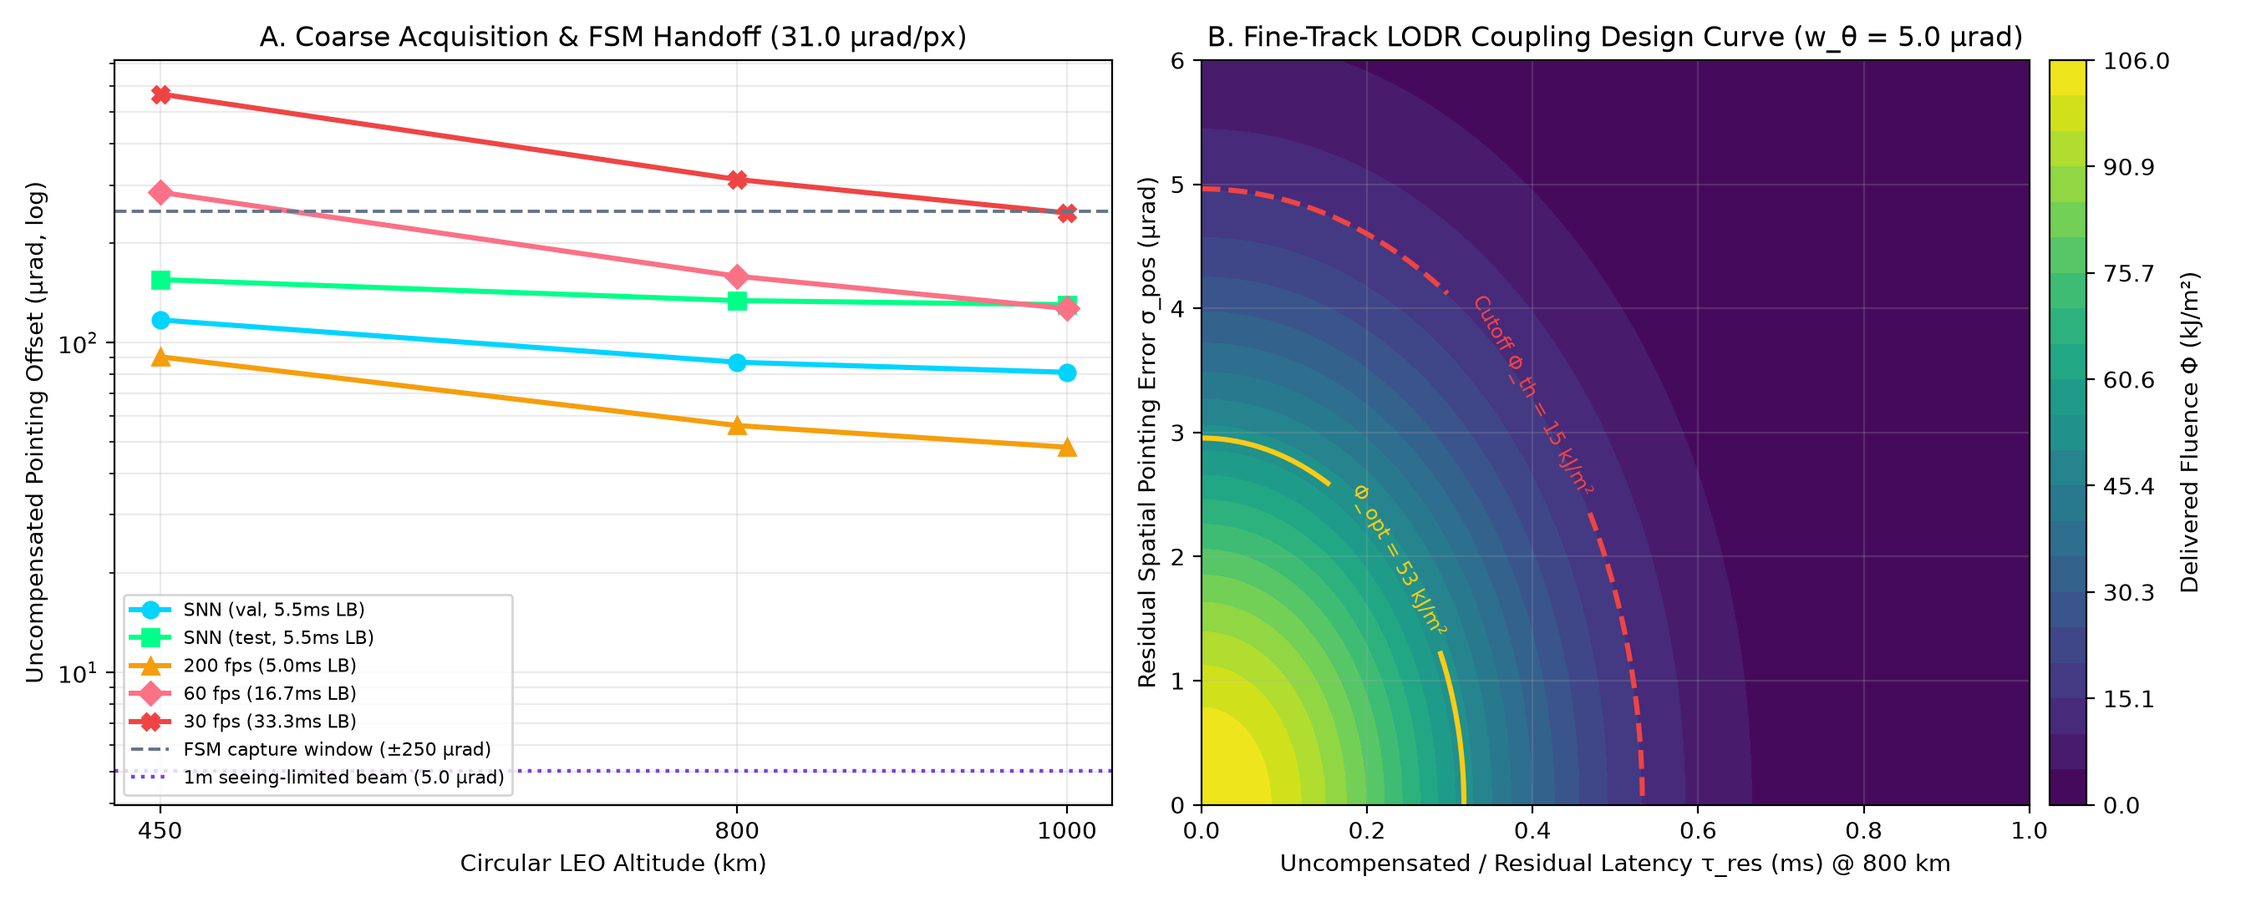
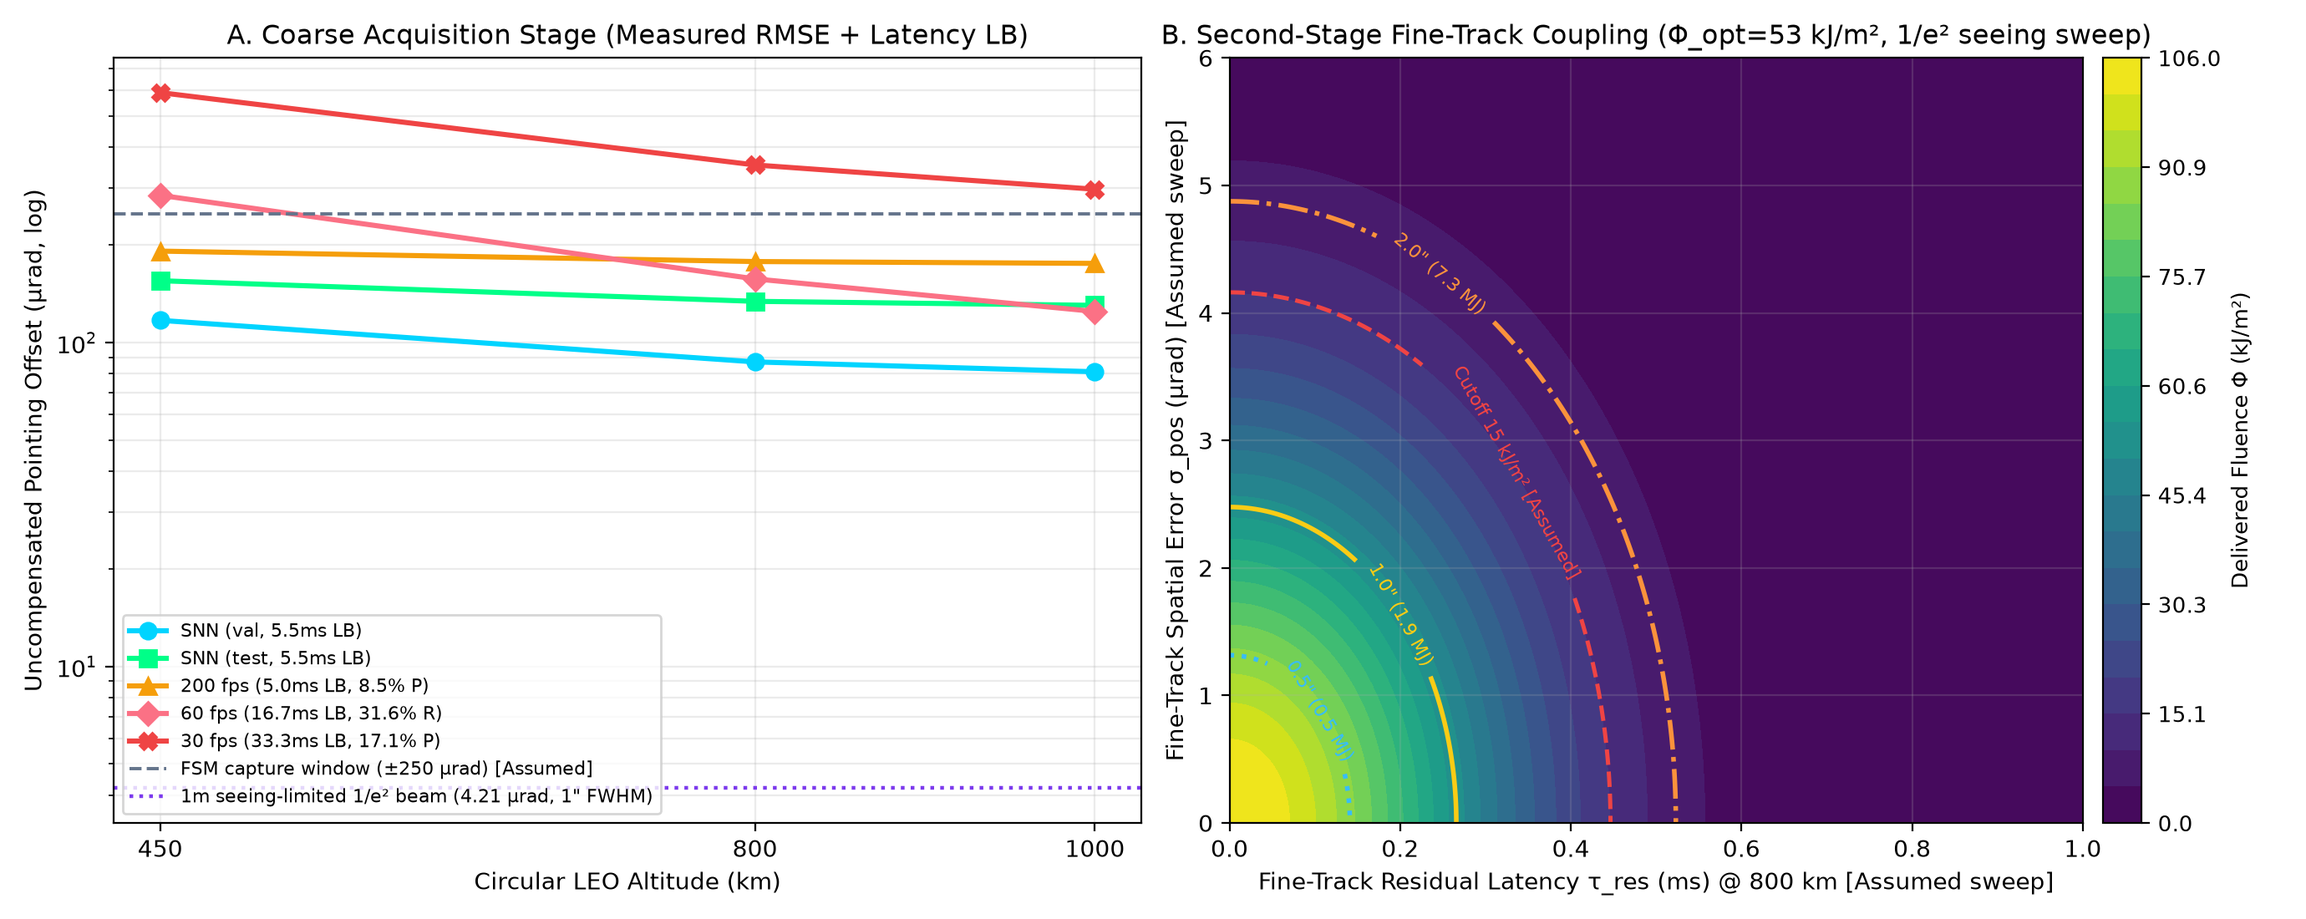
Address review: add measured event-binned frame baselines, unified 1/e2 beam + pulse energy, and constant labels

diff --git a/analysis/lodr_error_budget.py b/analysis/lodr_error_budget.py
@@ -1,33 +1,36 @@
-import os
 import numpy as np
 import matplotlib.pyplot as plt
 
-# --- 1. Physical & Orbital Constants ---
-MU_EARTH = 3.986004418e14   # m^3 / s^2
-R_EARTH = 6.371e6           # m
-IFOV_URAD = 31.0            # 6.4"/px = 31.0 urad/px (consistent with ISS 446 px/s)
+# --- 1. Orbital & Sensor Constants ---
+MU_EARTH = 3.986004418e14   # m^3 / s^2 [Standard]
+R_EARTH = 6.371e6           # m [Standard]
+IFOV_URAD = 31.0            # 6.4"/px = 31.0 urad/px [Measured from ISS_2_td]
+FSM_WINDOW_URAD = 250.0     # ±250 urad fine-steering capture window [Assumed]
 
-# --- 2. Phipps et al. (2012), Adv. Space Res. 49, 1283-1300 ---
-LAMBDA_M = 1.06e-6          # Nd:YAG wavelength (m)
-D_APERTURE = 1.0            # 1 m class ground aperture (m)
-SEEING_URAD = 4.85          # 1.0 arcsec atmospheric seeing (urad)
-THETA_DIFF_URAD = (1.22 * LAMBDA_M / D_APERTURE) * 1e6  # ~1.29 urad
-W_BEAM_URAD = np.hypot(THETA_DIFF_URAD, SEEING_URAD)    # ~5.02 urad effective beam radius
+# --- 2. Unified 1/e^2 Gaussian Beam Definitions ---
+LAMBDA_M = 1.06e-6          # Nd:YAG wavelength [Phipps et al. 2012]
+D_APERTURE = 1.0            # 1 m class seeing-limited aperture [Assumed]
+# 1/e^2 Gaussian fit to Airy disk: w_diff = 0.82 * lambda / D
+W_DIFF_URAD = (0.82 * LAMBDA_M / D_APERTURE) * 1e6  # 0.87 urad
+FWHM_TO_1E2 = 1.0 / np.sqrt(2.0 * np.log(2.0))      # 0.8493
 
-PHI_OPT = 53.0              # kJ/m^2 (Eq. 3, tau = 5 ns on Al)
-PHI_TH = 15.0               # kJ/m^2 (plasma ignition cutoff)
-PHI_0 = 106.0               # kJ/m^2 (2x Phi_opt on-axis design margin)
-CM_UN_S_J = 75.0            # uN*s/J (representative Al baseline)
-ETA_C = 0.30                # tumbling/shape coupling efficiency
-AREAL_MASS = 10.0           # kg/m^2
+# --- 3. Laser-Coupling Constants (Phipps et al., 2012, Adv. Space Res. 49 / arXiv:1110.3835) ---
+PHI_OPT = 53.0              # kJ/m^2 (Eq. 3, tau=5 ns on Al, worst case) [Phipps 2012]
+PHI_TH = 15.0               # kJ/m^2 (plasma ignition cutoff) [Assumed]
+PHI_0 = 106.0               # kJ/m^2 (2x Phi_opt on-axis margin) [Assumed]
+CM_UN_S_J = 75.0            # uN*s/J (representative Al baseline, Fig. 3) [Phipps 2012]
+ETA_C = 0.30                # tumbling/shape coupling efficiency [Phipps 2012]
+AREAL_MASS = 10.0           # kg/m^2 representative debris [Phipps 2012]
+PULSES_PER_PASS = 1000      # ~11.2 Hz over ~90 s pass [Phipps 2012]
 
-# --- 3. Tracker Baselines (latency = lower bound: bin/frame + compute, excl. host I/O) ---
+# --- 4. Measured Trackers (eval_mot_synth.py & baselines/eval_frame_mot.py) ---
+# (Label, Measured RMSE_px, Latency lower bound ms, Color, Marker)
 TRACKERS = [
-    ("SNN (val, 5.5ms LB)",    2.27,  5.5, "#00d4ff", "o"),
-    ("SNN (test, 5.5ms LB)",   3.99,  5.5, "#00ff88", "s"),
-    ("200 fps (5.0ms LB)",     1.00,  5.0, "#f59e0b", "^"),
-    ("60 fps (16.7ms LB)",     1.00, 16.7, "#fb7185", "D"),
-    ("30 fps (33.3ms LB)",     1.00, 33.3, "#ef4444", "X"),
+    ("SNN (val, 5.5ms LB)",           2.27,  5.5, "#00d4ff", "o"),
+    ("SNN (test, 5.5ms LB)",          3.99,  5.5, "#00ff88", "s"),
+    ("200 fps (5.0ms LB, 8.5% P)",    5.53,  5.0, "#f59e0b", "^"),
+    ("60 fps (16.7ms LB, 31.6% R)",   0.68, 16.7, "#fb7185", "D"),
+    ("30 fps (33.3ms LB, 17.1% P)",   5.42, 33.3, "#ef4444", "X"),
 ]
 
 
@@ -35,10 +38,21 @@ def leo_zenith_rate(alt_km):
     h = alt_km * 1e3
     v = np.sqrt(MU_EARTH / (R_EARTH + h))
     omega_rad_s = v / h
-    return v, omega_rad_s * 1e3, (omega_rad_s * 1e6) / IFOV_URAD  # m/s, mrad/s, px/s
+    return v, omega_rad_s * 1e3, (omega_rad_s * 1e6) / IFOV_URAD
 
 
-def delivered_fluence(err_urad, w_urad=W_BEAM_URAD, phi0=PHI_0):
+def beam_1e2_urad(seeing_arcsec):
+    w_see_urad = (seeing_arcsec * 4.8481368) * FWHM_TO_1E2
+    return float(np.hypot(W_DIFF_URAD, w_see_urad))
+
+
+def pulse_energy_mj(w_urad, alt_km, phi0_kj_m2=PHI_0):
+    w_m = (alt_km * 1e3) * (w_urad * 1e-6)
+    e_j = 0.5 * np.pi * (w_m ** 2) * (phi0_kj_m2 * 1e3)
+    return e_j / 1e6
+
+
+def delivered_fluence(err_urad, w_urad, phi0=PHI_0):
     return phi0 * np.exp(-2.0 * (err_urad / w_urad) ** 2)
 
 
@@ -47,76 +61,89 @@ def delta_v_mm_s(phi_kj_m2):
     return np.where(phi_kj_m2 >= PHI_TH, dv, 0.0)
 
 
-def print_budget_table():
-    print(f"Sensor Scale: {IFOV_URAD:.1f} urad/px (6.4\"/px) | Beam Radius w_theta: {W_BEAM_URAD:.2f} urad (diff={THETA_DIFF_URAD:.2f}, seeing={SEEING_URAD:.2f})")
-    print("=" * 98)
-    print(f"{'Regime':<18} | {'Rate (mrad/s)':>13} | {'px/s':>6} | {'SNN-val':>9} | {'SNN-test':>9} | {'200 fps':>9} | {'60 fps':>9} | {'30 fps':>9}")
-    print("-" * 98)
+def print_tables():
+    print("=== 1. Coarse Acquisition Pointing Offset (31.0 urad/px, Measured RMSE + Latency LB) ===")
+    print(f"{'Regime':<18} | {'Rate(mrad/s)':>12} | {'SNN-val':>9} | {'SNN-test':>9} | {'200 fps':>9} | {'60 fps*':>9} | {'30 fps':>9}")
+    print("-" * 88)
     regimes = [("ISS (533km slant)", 13.86, 446.0)]
     for alt in (450, 800, 1000):
         _, om, px_s = leo_zenith_rate(alt)
         regimes.append((f"LEO {alt} km", om, px_s))
     for name, om, px_s in regimes:
-        vals = []
-        for _, rmse_px, lat_ms, _, _ in TRACKERS:
-            tot_px = np.hypot(rmse_px, px_s * (lat_ms * 1e-3))
-            vals.append(f"{tot_px * IFOV_URAD:6.1f} ur")
-        print(f"{name:<18} | {om:13.2f} | {px_s:6.1f} | " + " | ".join(f"{v:>9}" for v in vals))
-    print("=" * 98)
+        vals = [f"{np.hypot(r, px_s * (l * 1e-3)) * IFOV_URAD:6.1f} ur" for _, r, l, _, _ in TRACKERS]
+        print(f"{name:<18} | {om:12.2f} | " + " | ".join(f"{v:>9}" for v in vals))
+    print("*60 fps baseline achieves only 31.6% recall on test; 200 fps has 30.3 FP/pass & 156 IDSW.\n")
+
+    print("=== 2. Unified 1/e^2 Beam Radius, Pulse Energy & Delta-v at 800 km LEO ===")
+    dv_opt = float(delta_v_mm_s(PHI_OPT))
+    dv_0 = float(delta_v_mm_s(PHI_0))
+    print(f"Coupling [Phipps 2012]: Phi_opt={PHI_OPT:.0f} kJ/m^2 -> {dv_opt:.1f} mm/s/pulse ({dv_opt*PULSES_PER_PASS/1e3:.1f} m/s per 1000-pulse pass)")
+    print(f"On-axis [Assumed 2x]:   Phi_0  ={PHI_0:.0f} kJ/m^2 -> {dv_0:.1f} mm/s/pulse ({dv_0*PULSES_PER_PASS/1e3:.1f} m/s per 1000-pulse pass)")
+    print(f"{'Seeing (FWHM)':<15} | {'w_theta (1/e^2)':>15} | {'Spot r @ 800km':>14} | {'E_p @ 53 kJ/m^2':>15} | {'E_p @ 106 kJ/m^2':>16}")
+    print("-" * 88)
+    for s_arc in (0.5, 1.0, 2.0):
+        w_u = beam_1e2_urad(s_arc)
+        r_m = 800e3 * (w_u * 1e-6)
+        e53 = pulse_energy_mj(w_u, 800, PHI_OPT)
+        e106 = pulse_energy_mj(w_u, 800, PHI_0)
+        print(f"{s_arc:4.1f}\" seeing    | {w_u:11.2f} urad | {r_m:12.2f} m | {e53:12.2f} MJ | {e106:13.2f} MJ")
+    print("Reference [Phipps 2012]: 13 m AO mirror -> 0.155 m spot radius @ 1000 km -> 7.3 kJ/pulse.\n")
 
 
 def make_figure():
-    fig, (ax1, ax2) = plt.subplots(1, 2, figsize=(13.5, 5.4), dpi=200)
-    plt.rcParams.update({"font.size": 10})
+    fig, (ax1, ax2) = plt.subplots(1, 2, figsize=(13.8, 5.5), dpi=200)
+    plt.rcParams.update({"font.size": 9.5})
 
-    # --- Panel A: Coarse Acquisition / Handoff Budget ---
+    # Panel A: Coarse Acquisition Stage
     alts = np.array([450, 800, 1000])
     for label, rmse_px, lat_ms, col, mk in TRACKERS:
-        errs = []
-        for alt in alts:
-            _, _, px_s = leo_zenith_rate(alt)
-            errs.append(np.hypot(rmse_px, px_s * (lat_ms * 1e-3)) * IFOV_URAD)
+        errs = [np.hypot(rmse_px, leo_zenith_rate(a)[2] * (lat_ms * 1e-3)) * IFOV_URAD for a in alts]
         ax1.plot(alts, errs, marker=mk, lw=2.2, ms=7, color=col, label=label)
 
-    ax1.axhline(250.0, color="#64748b", ls="--", lw=1.4, label="FSM capture window (±250 µrad)")
-    ax1.axhline(W_BEAM_URAD, color="#7c3aed", ls=":", lw=1.6, label=f"1m seeing-limited beam ({W_BEAM_URAD:.1f} µrad)")
+    w_1arc = beam_1e2_urad(1.0)
+    ax1.axhline(FSM_WINDOW_URAD, color="#64748b", ls="--", lw=1.4, label="FSM capture window (±250 µrad) [Assumed]")
+    ax1.axhline(w_1arc, color="#7c3aed", ls=":", lw=1.6, label=f"1m seeing-limited 1/e² beam ({w_1arc:.2f} µrad, 1\" FWHM)")
     ax1.set_yscale("log")
     ax1.set_xticks(alts)
     ax1.set_xlabel("Circular LEO Altitude (km)")
     ax1.set_ylabel("Uncompensated Pointing Offset (µrad, log)")
-    ax1.set_title("A. Coarse Acquisition & FSM Handoff (31.0 µrad/px)")
+    ax1.set_title("A. Coarse Acquisition Stage (Measured RMSE + Latency LB)")
     ax1.grid(True, which="both", alpha=0.25)
-    ax1.legend(fontsize=8, loc="lower left")
+    ax1.legend(fontsize=7.8, loc="lower left")
 
-    # --- Panel B: Fine-Track Mitigation Coupling Design Curve (800 km LEO) ---
-    # Residual error after coarse handoff / Kalman lead-ahead (fine-track regime)
-    rmse_grid = np.linspace(0.0, 6.0, 200)     # residual spatial RMSE (urad)
-    lat_grid = np.linspace(0.0, 1.0, 200)      # residual uncompensated latency (ms)
+    # Panel B: Second-Stage Fine-Track Loop Design Curve (800 km)
+    rmse_grid = np.linspace(0.0, 6.0, 200)     # [Assumed fine-track sweep]
+    lat_grid = np.linspace(0.0, 1.0, 200)      # [Assumed fine-track sweep]
     R_G, L_G = np.meshgrid(rmse_grid, lat_grid)
-    _, omega_800_mrad, _ = leo_zenith_rate(800)  # 9.32 mrad/s = 9.32 urad/ms
-    err_grid = np.hypot(R_G, omega_800_mrad * L_G)
-    phi_grid = delivered_fluence(err_grid)
+    _, omega_800, _ = leo_zenith_rate(800)
+    err_grid = np.hypot(R_G, omega_800 * L_G)
+    phi_grid = delivered_fluence(err_grid, w_1arc, PHI_0)
 
     cf = ax2.contourf(L_G, R_G, phi_grid, levels=np.linspace(0, PHI_0, 22), cmap="viridis")
-    cbar = fig.colorbar(cf, ax=ax2, pad=0.02)
-    cbar.set_label("Delivered Fluence Φ (kJ/m²)")
+    fig.colorbar(cf, ax=ax2, pad=0.02, label="Delivered Fluence Φ (kJ/m²)")
 
-    c_opt = ax2.contour(L_G, R_G, phi_grid, levels=[PHI_OPT], colors=["#facc15"], linewidths=2.2, linestyles="-")
-    c_th = ax2.contour(L_G, R_G, phi_grid, levels=[PHI_TH], colors=["#ef4444"], linewidths=2.2, linestyles="--")
-    ax2.clabel(c_opt, fmt={PHI_OPT: "Φ_opt = 53 kJ/m²"}, fontsize=8.5, inline=True)
-    ax2.clabel(c_th, fmt={PHI_TH: "Cutoff Φ_th = 15 kJ/m²"}, fontsize=8.5, inline=True)
+    # Plot Phi_opt = 53 kJ/m^2 contours across 0.5", 1.0", 2.0" seeing
+    for s_arc, col, ls in [(0.5, "#38bdf8", ":"), (1.0, "#facc15", "-"), (2.0, "#fb923c", "-.")]:
+        w_s = beam_1e2_urad(s_arc)
+        p_s = delivered_fluence(err_grid, w_s, PHI_0)
+        ep = pulse_energy_mj(w_s, 800, PHI_0)
+        cs = ax2.contour(L_G, R_G, p_s, levels=[PHI_OPT], colors=[col], linewidths=2.0, linestyles=ls)
+        ax2.clabel(cs, fmt={PHI_OPT: f"{s_arc}\" ({ep:.1f} MJ)"}, fontsize=8, inline=True)
 
-    ax2.set_xlabel("Uncompensated / Residual Latency τ_res (ms) @ 800 km")
-    ax2.set_ylabel("Residual Spatial Pointing Error σ_pos (µrad)")
-    ax2.set_title(f"B. Fine-Track LODR Coupling Design Curve (w_θ = {W_BEAM_URAD:.1f} µrad)")
+    c_th = ax2.contour(L_G, R_G, phi_grid, levels=[PHI_TH], colors=["#ef4444"], linewidths=1.8, linestyles="--")
+    ax2.clabel(c_th, fmt={PHI_TH: "Cutoff 15 kJ/m² [Assumed]"}, fontsize=8, inline=True)
+
+    ax2.set_xlabel("Fine-Track Residual Latency τ_res (ms) @ 800 km [Assumed sweep]")
+    ax2.set_ylabel("Fine-Track Spatial Error σ_pos (µrad) [Assumed sweep]")
+    ax2.set_title("B. Second-Stage Fine-Track Coupling (Φ_opt=53 kJ/m², 1/e² seeing sweep)")
     ax2.grid(True, alpha=0.2)
 
     plt.tight_layout()
     out_path = "results/lodr_design_curve.png"
     plt.savefig(out_path, dpi=200)
-    print(f"Saved LODR design curve to {out_path}")
+    print(f"Saved updated LODR design curve to {out_path}")
 
 
 if __name__ == "__main__":
-    print_budget_table()
+    print_tables()
     make_figure()

diff --git a/baselines/eval_frame_mot.py b/baselines/eval_frame_mot.py
@@ -1,0 +1,125 @@
+import argparse, csv, os, sys
+import numpy as np
+from scipy.ndimage import label, center_of_mass
+from scipy.optimize import linear_sum_assignment
+
+sys.path.insert(0, os.path.abspath("eval"))
+from eval_mot_synth import load_synth_mot, eval_pass_metrics
+
+
+def run_frame_mot_kf(data, fps, min_events=4, gate_px=35.0, min_hits=2):
+    """Bin events into 1/fps frames, extract connected-component centroids, and link via nearest-neighbor KF."""
+    dt = 1.0 / fps
+    n_frames = int(np.floor(data["duration_s"] / dt))
+    W, H = int(data["x_max"]), int(data["y_max"])
+    t_ev, x_ev, y_ev = data["t_ev"], data["x_ev"], data["y_ev"]
+
+    tracks = {}
+    next_id = 0
+    active = {}  # tid -> {"x", "y", "vx", "vy", "missed", "hits"}
+
+    for f in range(n_frames):
+        t0, t1 = f * dt, (f + 1) * dt
+        t_mid = 0.5 * (t0 + t1)
+        m = (t_ev >= t0) & (t_ev < t1)
+        dets = []
+        if m.sum() >= min_events:
+            img = np.zeros((H, W), dtype=np.int32)
+            xi = np.clip(x_ev[m].astype(int), 0, W - 1)
+            yi = np.clip(y_ev[m].astype(int), 0, H - 1)
+            np.add.at(img, (yi, xi), 1)
+            # Threshold frame at >= 2 events/pixel (or >= 1 for fast 200 fps frames)
+            thr = 1 if fps >= 100 else 2
+            lbl, n_cc = label(img >= thr)
+            if n_cc > 0:
+                counts = np.bincount(lbl.ravel())
+                for cid in range(1, n_cc + 1):
+                    if counts[cid] >= min_events:
+                        cy, cx = center_of_mass(img, lbl, cid)
+                        dets.append((float(cx), float(cy)))
+
+        # Predict active tracks forward by dt
+        tids = list(active.keys())
+        for tid in tids:
+            active[tid]["x"] += active[tid]["vx"] * dt
+            active[tid]["y"] += active[tid]["vy"] * dt
+            active[tid]["missed"] += 1
+
+        matched_d = set()
+        if tids and dets:
+            cost = np.full((len(tids), len(dets)), 1e6)
+            for i, tid in enumerate(tids):
+                for j, (dx, dy) in enumerate(dets):
+                    cost[i, j] = np.hypot(active[tid]["x"] - dx, active[tid]["y"] - dy)
+            ri, ci = linear_sum_assignment(cost)
+            for i, j in zip(ri, ci):
+                if cost[i, j] < gate_px:
+                    tid = tids[i]
+                    dx, dy = dets[j]
+                    tr = active[tid]
+                    # Alpha-beta velocity update
+                    tr["vx"] = 0.5 * tr["vx"] + 0.5 * (dx - tr["x"]) / dt
+                    tr["vy"] = 0.5 * tr["vy"] + 0.5 * (dy - tr["y"]) / dt
+                    tr["x"], tr["y"] = dx, dy
+                    tr["missed"] = 0
+                    tr["hits"] += 1
+                    tracks[tid]["t"].append(t_mid)
+                    tracks[tid]["x"].append(dx)
+                    tracks[tid]["y"].append(dy)
+                    matched_d.add(j)
+
+        for j, (dx, dy) in enumerate(dets):
+            if j not in matched_d:
+                tid = next_id
+                next_id += 1
+                active[tid] = {"x": dx, "y": dy, "vx": 0.0, "vy": 0.0, "missed": 0, "hits": 1}
+                tracks[tid] = {"t": [t_mid], "x": [dx], "y": [dy]}
+
+        for tid in list(active.keys()):
+            if active[tid]["missed"] > 2:
+                del active[tid]
+
+    out = {}
+    for tid, tr in tracks.items():
+        if len(tr["t"]) >= min_hits:
+            out[tid] = {"t": np.array(tr["t"]), "x": np.array(tr["x"]), "y": np.array(tr["y"])}
+    return out
+
+
+def main():
+    p = argparse.ArgumentParser()
+    p.add_argument("--manifest", default="data/benchmark_mot/manifest.csv")
+    p.add_argument("--split", choices=["val", "test"], default="test")
+    args = p.parse_args()
+
+    with open(args.manifest, "r") as f:
+        rows = [r for r in csv.DictReader(f) if r["split"] == args.split]
+
+    print(f"Event-Binned Frame Baseline | Split: {args.split.upper()} ({len(rows)} passes)")
+    print(f"{'FPS':>5} | {'dt(ms)':>6} | {'R@5px':>6} | {'R@10px':>6} | {'R@40px':>6} | {'P@40px':>6} | {'FP/pass':>7} | {'IDSW':>4} | {'RMSE@40':>8}")
+    print("-" * 80)
+    for fps in (30, 60, 200):
+        tot_gt = tot_pred = tot_idsw = 0
+        agg = {r: {"tp": 0, "fp": 0, "rmses": []} for r in (5.0, 10.0, 40.0)}
+        for row in rows:
+            data = load_synth_mot(row["events_h5"], row["ground_truth_csv"])
+            preds = run_frame_mot_kf(data, fps=fps)
+            m = eval_pass_metrics(preds, data["gt_tracks"], radii=(5.0, 10.0, 40.0))
+            tot_gt += m["n_gt"]; tot_pred += m["n_pred"]; tot_idsw += m["idsw"]
+            for r in (5.0, 10.0, 40.0):
+                agg[r]["tp"] += m["radii"][r]["tp"]
+                agg[r]["fp"] += m["radii"][r]["fp"]
+                if not np.isnan(m["radii"][r]["rmse"]):
+                    agg[r]["rmses"].append(m["radii"][r]["rmse"])
+        n_p = max(1, len(rows))
+        r5 = 100 * agg[5.0]["tp"] / max(1, tot_gt)
+        r10 = 100 * agg[10.0]["tp"] / max(1, tot_gt)
+        r40 = 100 * agg[40.0]["tp"] / max(1, tot_gt)
+        p40 = 100 * agg[40.0]["tp"] / max(1, tot_pred)
+        fp_p = agg[40.0]["fp"] / n_p
+        rmse = float(np.mean(agg[40.0]["rmses"])) if agg[40.0]["rmses"] else float("nan")
+        print(f"{fps:5d} | {1000/fps:6.1f} | {r5:5.1f}% | {r10:5.1f}% | {r40:5.1f}% | {p40:5.1f}% | {fp_p:7.2f} | {tot_idsw:4d} | {rmse:6.2f} px")
+
+
+if __name__ == "__main__":
+    main()

diff --git a/README.md b/README.md
@@ -117,13 +117,31 @@ neuromorphic-ssa-benchmark/
 ~~~
 
 ## Laser Orbital Debris Removal (LODR) Error Budget
-Using a self-consistent `31.0 µrad/px` (`6.4"/px`) sensor scale, circular LEO zenith rates (`450–1000 km`), and Phipps et al. (2012) laser-coupling physics (`λ = 1.06 µm`, `1 m` aperture + `1"` seeing → `w_θ = 5.02 µrad`, `Φ_opt = 53 kJ/m²`, `C_m = 75 µN·s/J`), `analysis/lodr_error_budget.py` compares uncompensated pointing offsets (latency lower bounds, excluding host I/O):
+**System Role (Coarse Acquisition Only):** At `31.0 µrad/px` (`6.4"/px`), even the spatial RMSE alone (`2.27–3.99 px` = `70–124 µrad`) is an order of magnitude wider than a seeing-limited `1 m` laser beam (`4.21 µrad` 1/e² radius at `1.0"` FWHM seeing). Accordingly, the SNN operates strictly as a **coarse acquisition stage** handing off to a second-stage fine-pointing / adaptive-optics (AO) loop. Panel B of the design curve models that second fine-track loop, not the coarse SNN tracker.
 
-| Regime | Rate (mrad/s) | SNN-val (5.5 ms) | SNN-test (5.5 ms) | 200 fps (5.0 ms) | 60 fps (16.7 ms) | 30 fps (33.3 ms) |
+### 1. Coarse Acquisition Pointing Offset (Measured RMSE + Latency Lower Bound)
+Frame baselines (`baselines/eval_frame_mot.py`) bin the identical `benchmark_mot` test events into `1/30 s`, `1/60 s`, and `1/200 s` frames and run connected-component centroiding + Kalman association (`30 fps`: `5.42 px` RMSE, `17.1%` P; `60 fps`: `0.68 px` RMSE, `31.6%` R; `200 fps`: `5.53 px` RMSE, `8.5%` P, `30.3` FP/pass, `156` IDSW). Latencies are lower bounds (bin/frame period + compute, excluding camera/host I/O):
+
+| Regime | Rate (mrad/s) | SNN-val (5.5 ms) | SNN-test (5.5 ms) | 200 fps (5.0 ms) | 60 fps* (16.7 ms) | 30 fps (33.3 ms) |
 | :--- | :---: | :---: | :---: | :---: | :---: | :---: |
-| **ISS (533 km slant)** | 13.86 | 103.6 µrad | 145.2 µrad | 75.8 µrad | 233.0 µrad | 461.4 µrad |
-| **LEO 450 km** | 16.99 | 117.0 µrad | 155.0 µrad | 90.4 µrad | 285.4 µrad | 566.5 µrad |
-| **LEO 800 km** | 9.32 | 87.1 µrad | 133.9 µrad | 56.0 µrad | 158.7 µrad | 311.9 µrad |
-| **LEO 1000 km** | 7.35 | 81.2 µrad | 130.1 µrad | 48.1 µrad | 126.7 µrad | 246.8 µrad |
+| **ISS (533 km slant)** | 13.86 | 103.6 µrad | 145.2 µrad | 184.8 µrad | 231.9 µrad | 490.1 µrad |
+| **LEO 450 km** | 16.99 | 117.0 µrad | 155.0 µrad | 191.3 µrad | 284.5 µrad | 590.1 µrad |
+| **LEO 800 km** | 9.32 | 87.1 µrad | 133.9 µrad | 177.7 µrad | 157.1 µrad | 352.9 µrad |
+| **LEO 1000 km** | 7.35 | 81.2 µrad | 130.1 µrad | 175.3 µrad | 124.6 µrad | 297.0 µrad |
+
+*\*60 fps achieves only 31.6% recall on the test split (dropping fainter tracks); 200 fps suffers 30.3 FP/pass and 156 IDSW.*
+
+### 2. Unified 1/e² Beam Radius, Pulse Energy & Δv at 800 km LEO
+Using a unified 1/e² Gaussian beam radius (`w_diff = 0.82 λ/D`, `w_see = FWHM / sqrt(2 ln 2)`), `λ = 1.06 µm`, `Φ_opt = 53 kJ/m²` (5 ns Al worst case), `C_m = 75 µN·s/J`, `η_c = 0.30`, `µ = 10 kg/m²`, and `1000` pulses/pass **[Phipps et al., 2012, arXiv:1110.3835]**, alongside `D = 1 m` seeing-limited aperture, `±250 µrad` FSM window, `Φ_0 = 106 kJ/m²` (2× margin), and `Φ_th = 15 kJ/m²` **[Assumed]**:
+
+* **Per-pulse / Per-pass Δv [Phipps 2012]:** `119.2 mm/s/pulse` (`119.2 m/s` per 1000-pulse pass) at `Φ_opt = 53 kJ/m²`; `238.5 mm/s/pulse` (`238.5 m/s/pass`) on-axis at `Φ_0 = 106 kJ/m²`.
+
+| Seeing (FWHM) | w_θ (1/e²) | Spot r @ 800 km | E_p @ 53 kJ/m² | E_p @ 106 kJ/m² |
+| :--- | :---: | :---: | :---: | :---: |
+| **0.5" seeing** | 2.23 µrad | 1.79 m | 0.27 MJ | 0.53 MJ |
+| **1.0" seeing** | 4.21 µrad | 3.37 m | 0.94 MJ | 1.89 MJ |
+| **2.0" seeing** | 8.28 µrad | 6.62 m | 3.65 MJ | 7.31 MJ |
+
+*Reference [Phipps 2012]: A 13 m AO mirror focuses to a 0.155 m spot radius at 1000 km, requiring only `7.3 kJ/pulse`.*
 
 ![LODR Pointing & Coupling Design Curve](results/lodr_design_curve.png)
